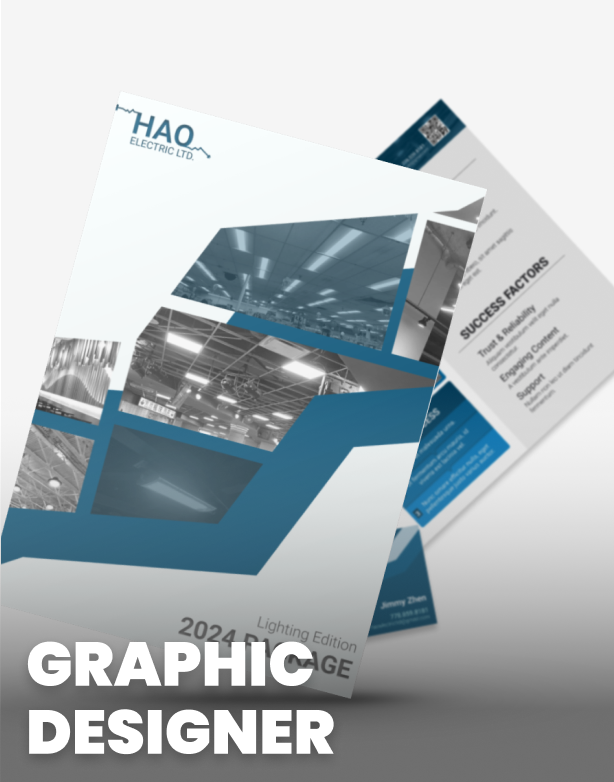
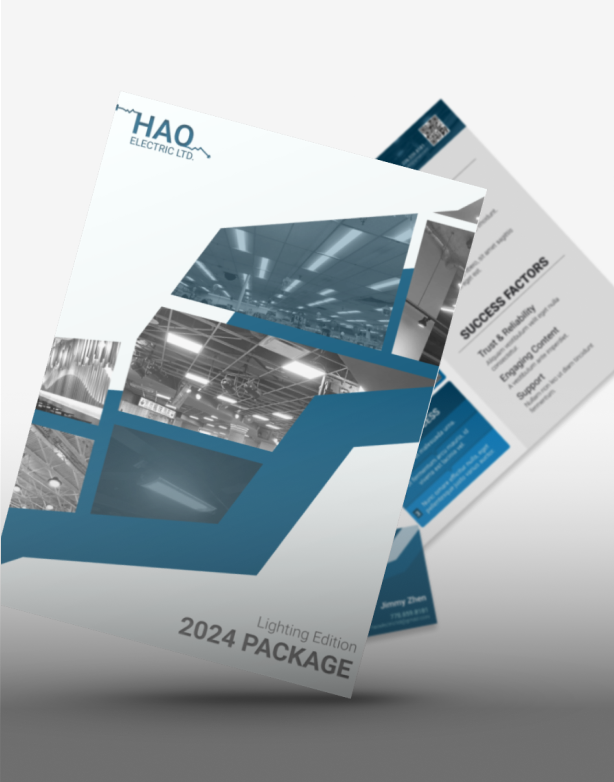
changing the pictures so that the title isnt on it anymore

Changed region(s): [[0.0309, 0.798, 0.557, 0.9821]]

diff --git a/landingpage/index.html b/landingpage/index.html
@@ -129,6 +129,7 @@
             <div class="item-collapsed">
                 <img src="https://ariellebeltran.github.io/portfolio/landingpage/images/uxui-mockup.png"
                     alt="A white and red banner of Advisor Link." width="auto" height="100%">
+                <div class="item-title item1"><h2 id="role-title">UX/UI Designer</h2></div>
             </div>
 
             <div class="item-expanded">
@@ -160,6 +161,7 @@
             <div class="item-collapsed">
                 <img src="https://ariellebeltran.github.io/portfolio/landingpage/images/graphicdesigner-mockup.png"
                     alt="A white and red banner of Advisor Link." width="auto" height="100%">
+                <div class="item-title item2"><h2 id="role-title">Graphic Designer</h2></div>
             </div>
 
             <div class="item-expanded">
@@ -206,13 +208,14 @@
             <div class="item-collapsed">
                 <img src="https://ariellebeltran.github.io/portfolio/landingpage/images/uxuiresearch-mockup.png"
                     alt="A white and red banner of Advisor Link." width="auto" height="100%">
+                <div class="item-title item4"> <h2 id="role-title">UX/UI Researcher</h2></div>
             </div>
 
             <div class="item-expanded">
                 <h2 class="item-role inside-header">UX/UI Researcher</h2>
 
                 <div class="item-role inside1">
-                    <img src="https://ariellebeltran.github.io/portfolio/landingpage/images/siteinspo.png"
+                    <img src="https://ariellebeltran.github.io/portfolio/landingpage/images/blossom-research-hypothesis.png"
                         alt="Mockup of a new approach of the Blossom app." width="100%" height="auto">
                 </div>
                 <div class="item-role inside2">
@@ -235,6 +238,7 @@
             <div class="item-collapsed">
                 <img src="https://ariellebeltran.github.io/portfolio/landingpage/images/visanalyst-mockup.png"
                     alt="A white and red banner of Advisor Link." width="auto" height="100%">
+                <div class="item-title item5"> <h2 id="role-title">Visual Analyst</h2></div>
             </div>
 
             <div class="item-expanded">

diff --git a/landingpage/style.css b/landingpage/style.css
@@ -217,7 +217,26 @@ nav {
 .item-collapsed{
     padding: none;
     margin: none;
-    height: 60vh;
+    /* height: 60vh; */
+}
+
+.item-title{
+    /* position: absolute;
+    bottom: 8px;
+    left: 16px; */
+    bottom: 8px;
+    transform: translate(0%, -200%);;
+}
+
+#role-title {
+        font-family: "Poppins", sans-serif;
+        font-weight: 700;
+        /* font-style: normal; */
+        text-transform: uppercase;
+        text-align: center;
+        margin: 0;
+        color: white;
+
 }
 
 .expanded .item-expanded {
@@ -246,10 +265,10 @@ nav {
 }
 
 .item-role {
-    background-color: #f0f0f0;
+    background-color: #f5f5f5;
     
     text-align: center;
-    height: 60vh;
+    /* height: 60vh; */
     transition: all 0.3s ease;
     overflow: hidden;
 }
